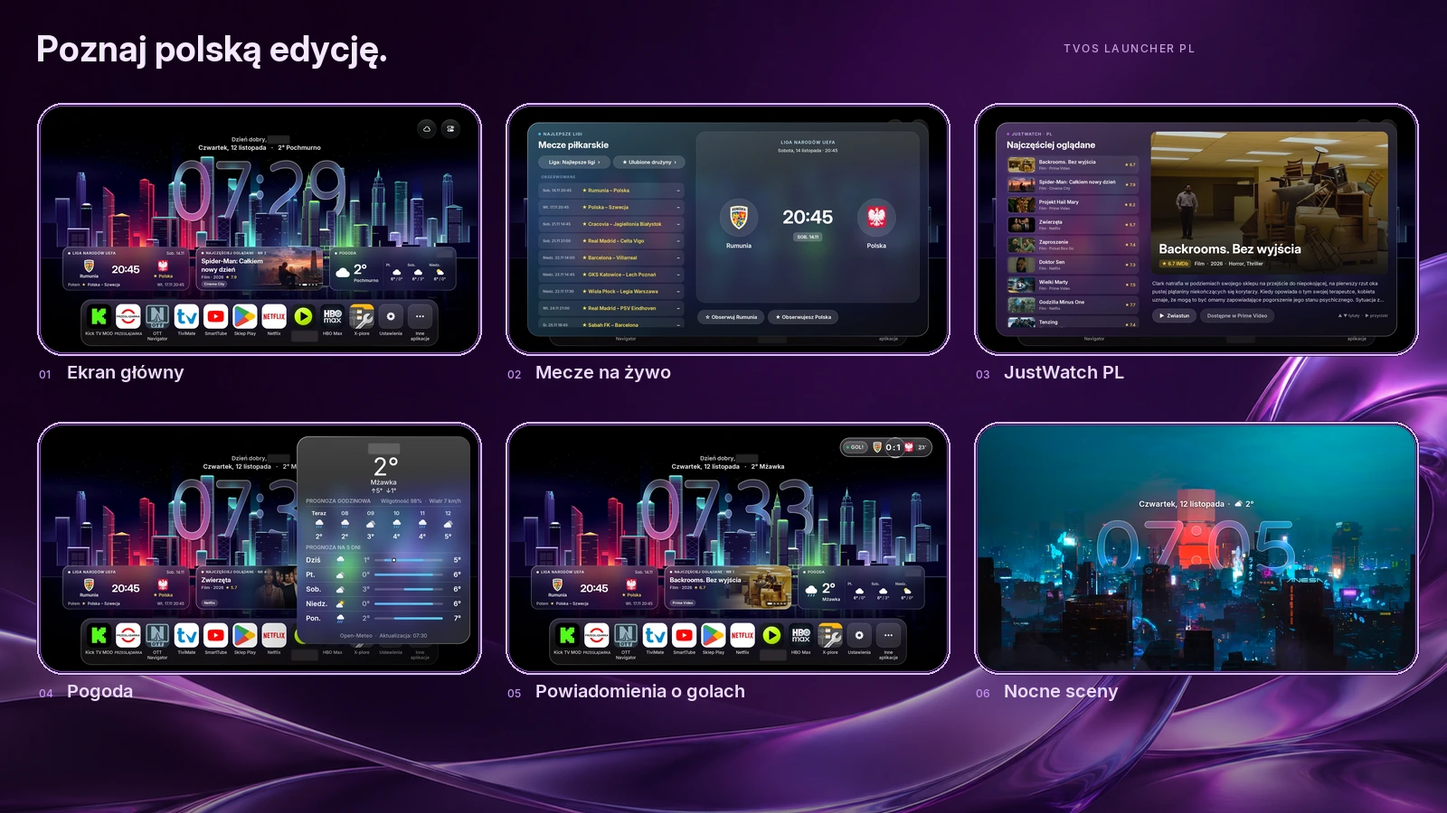
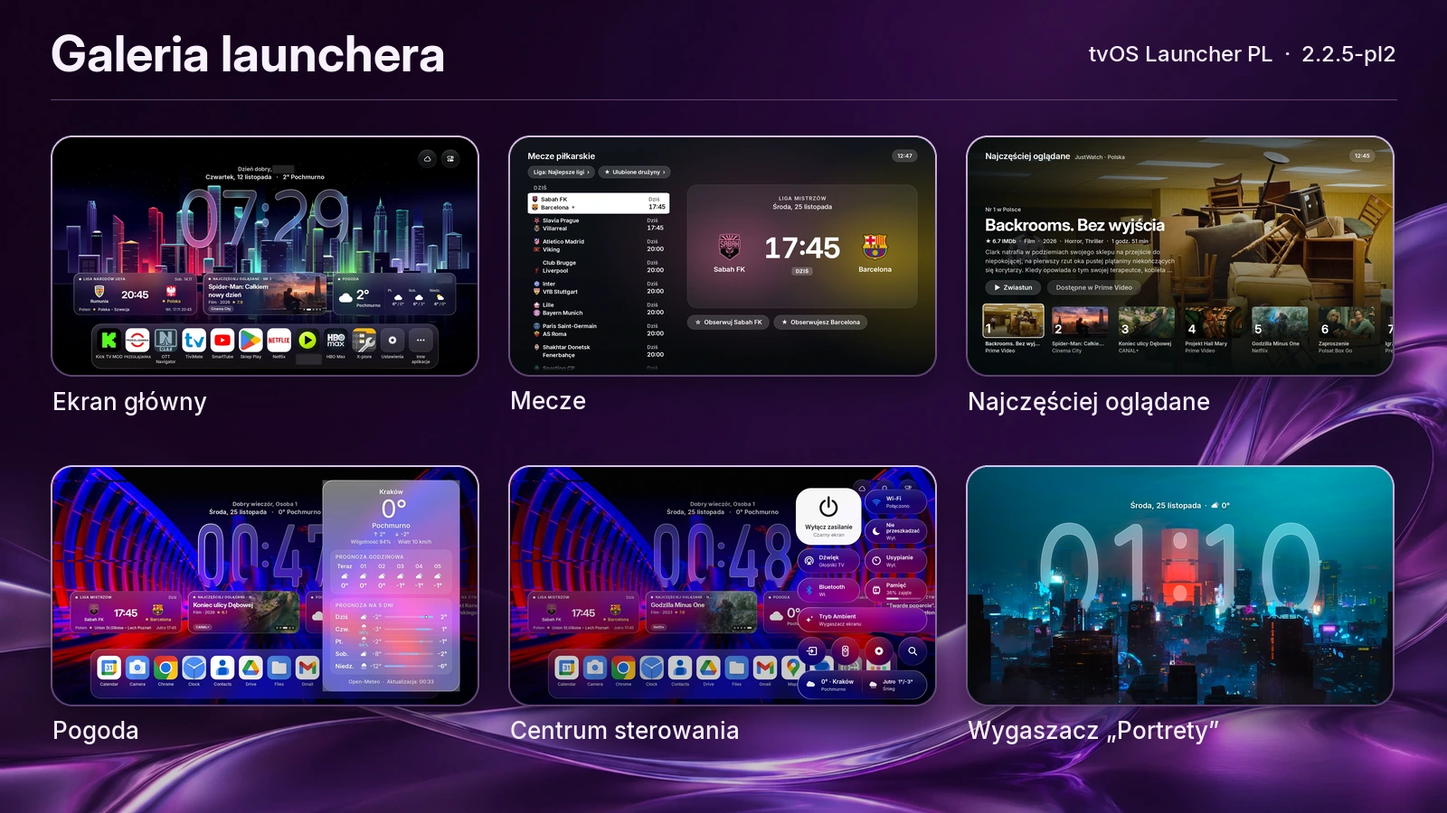
docs: plansze i zrzuty 2.2.5-pl2 w README
- nowa okładka i galeria (showcase.webp, preview.webp)
- plansze tematyczne w zrzuty-github/gotowe/prezentacja/ jako ilustracje
  przy funkcjach (mecze, filmy i seriale, pogoda, Centrum sterowania,
  dok, wygaszacz „Portrety”, pierwsze uruchomienie)
- pełne kadry z emulatora jako odnośniki do szczegółów, w tym pytanie
  po aktualizacji o wskaźnik głośności
- rozróżnienie pierwszej instalacji i aktualizacji w README PL i EN
- zaktualizowany spis ilustracji; screensaver-settings.webp nie jest już
  wykluczony w .gitignore

diff --git a/README.md b/README.md
@@ -1,6 +1,6 @@
 # tvOS Launcher PL · 2.2.5-pl2
 
-![tvOS Launcher PL: pełny ekran z dokiem i oknami moda na fioletowej scenie](zrzuty-github/gotowe/showcase.webp)
+![tvOS Launcher PL 2.2.5-pl2: ekran główny z dokiem, panel pogody i Centrum sterowania, a pod nimi mecze, „Najczęściej oglądane” i wygaszacz „Portrety”](zrzuty-github/gotowe/showcase.webp)
 
 [Galeria sześciu widoków / Six-screen gallery](zrzuty-github/gotowe/preview.webp)
 
@@ -28,29 +28,30 @@ Wcześniej, w 2.2.0-pl: dok w 1–3 rzędach z dopasowanym rzędem kafelków, ok
 
 ### Co zmieniono
 
-| Zmiana | Zrzut — kliknij, aby powiększyć |
+| Zmiana | Ilustracja — kliknij, aby powiększyć |
 | --- | --- |
-| **Pełne spolszczenie.** Interfejs, kreator pierwszego uruchomienia i opisy pogody są po polsku. | [<img src="zrzuty-github/gotowe/widget-settings.webp" width="300" alt="Ustawienia kafelków po polsku">](zrzuty-github/gotowe/widget-settings.webp) |
-| **Kafelki i okna Liquid Glass: mecze.** Kafelek pokazuje najbliższy mecz, a podczas spotkania wynik na żywo z LiveScore; osobne okno pozwala przeglądać mecze i obserwować drużyny. | [<img src="zrzuty-github/gotowe/matches-tile.webp" width="300" alt="Kafelek meczów z herbami i godziną">](zrzuty-github/gotowe/matches-tile.webp)<br>[<img src="zrzuty-github/gotowe/matches.webp" width="300" alt="Lista meczów i duży podgląd wybranego meczu">](zrzuty-github/gotowe/matches.webp) |
-| **„Najczęściej oglądane”.** Szklany kafelek i okno z popularnymi filmami i serialami z JustWatch dla Polski, opisami oraz przejściem do dostępnych serwisów. | [<img src="zrzuty-github/gotowe/most-watched.webp" width="300" alt="Polskie okno Najczęściej oglądane">](zrzuty-github/gotowe/most-watched.webp) |
-| **Pogoda.** Kafelek Liquid Glass otwiera polską prognozę godzinową i na kolejne dni. | [<img src="zrzuty-github/gotowe/weather.webp" width="300" alt="Pełny ekran z oknem pogody i ukrytą nazwą miejscowości">](zrzuty-github/gotowe/weather.webp) |
-| **Powiadomienia o golach.** Plakietki z herbami i wynikiem ulubionych drużyn mogą pojawiać się także nad innymi aplikacjami, po nadaniu zgody. Zrzut pokazuje powiadomienie przykładowe. | [<img src="zrzuty-github/gotowe/goal-badge.webp" width="300" alt="Przykładowa plakietka gola">](zrzuty-github/gotowe/goal-badge.webp) |
-| **„Oglądaj dalej” przez lokalne ADB.** Uprawnienie do informacji o odtwarzaniu można włączyć z launchera, potwierdzając zgodę na telewizorze. | [<img src="zrzuty-github/gotowe/setup-mode.webp" width="300" alt="Konfiguracja uprawnień po polsku">](zrzuty-github/gotowe/setup-mode.webp) |
-| **Nocne tapety z internetu.** Supercary i auta po tuningu — m.in. Audi RS, Mercedes-AMG i Lamborghini — w nocy i neonach oraz futurystyczne miasta nocą; zdjęcia za dnia launcher pomija. | [<img src="zrzuty-github/gotowe/home.webp" width="300" alt="Ekran główny z nocną tapetą i trzema kafelkami">](zrzuty-github/gotowe/home.webp) |
+| **Pełne spolszczenie.** Interfejs, kreator pierwszego uruchomienia i opisy pogody są po polsku. Zaznaczony wiersz list w ustawieniach to biała pigułka, jak w tvOS 27. | [<img src="zrzuty-github/gotowe/widget-settings.webp" width="300" alt="Ustawienia kafelków po polsku z białą pigułką zaznaczenia">](zrzuty-github/gotowe/widget-settings.webp) |
+| **Kafelki i okna Liquid Glass: mecze.** Kafelek pokazuje najbliższy mecz, a podczas spotkania wynik na żywo z LiveScore; osobne okno w stylu tvOS 27 pozwala przeglądać mecze i obserwować drużyny. | [<img src="zrzuty-github/gotowe/prezentacja/matches.webp" width="300" alt="Plansza Mecze: okno meczów i kafelek meczu na ekranie głównym">](zrzuty-github/gotowe/prezentacja/matches.webp)<br>Pełne kadry: [okno meczów](zrzuty-github/gotowe/matches.webp) · [kafelek](zrzuty-github/gotowe/matches-tile.webp) |
+| **„Najczęściej oglądane” i „Top filmy i seriale”.** Szklane kafelki i okna z popularnymi filmami i serialami z JustWatch dla Polski oraz z rankingiem Cinemeta (dane IMDb): duży kadr, opis, przejście do dostępnych serwisów i półka plakatów. | [<img src="zrzuty-github/gotowe/prezentacja/cinema.webp" width="300" alt="Plansza Filmy i seriale: okno Najczęściej oglądane i plakaty rankingu Top filmy i seriale">](zrzuty-github/gotowe/prezentacja/cinema.webp)<br>Pełne kadry: [Najczęściej oglądane](zrzuty-github/gotowe/most-watched.webp) · [Top filmy i seriale](zrzuty-github/gotowe/top-movies.webp) |
+| **Pogoda.** Kafelek Liquid Glass otwiera polską prognozę godzinową i na kolejne dni na przezroczystym szkle. | [<img src="zrzuty-github/gotowe/prezentacja/weather.webp" width="300" alt="Plansza Pogoda: panel z prognozą godzinową, testowa lokalizacja Kraków">](zrzuty-github/gotowe/prezentacja/weather.webp)<br>Pełny kadr: [panel pogody](zrzuty-github/gotowe/weather.webp) |
+| **Centrum sterowania i wskaźnik głośności.** Centrum sterowania w układzie tvOS 27: duży kafel zasilania, kapsuły, okrągłe przyciski i przezroczyste tło. Szklany wskaźnik głośności przy prawej krawędzi ekranu jest do wyboru na przystawkach z Androidem 10 lub nowszym, w trybie stałego ADB. | [<img src="zrzuty-github/gotowe/prezentacja/controls.webp" width="300" alt="Plansza Centrum sterowania: panel, ekran główny i szklany wskaźnik głośności">](zrzuty-github/gotowe/prezentacja/controls.webp)<br>Pełne kadry: [Centrum sterowania](zrzuty-github/gotowe/control-center.webp) · [wskaźnik głośności](zrzuty-github/gotowe/volume-pill.webp) · [detal wskaźnika](zrzuty-github/gotowe/volume-pill-detail.webp) |
+| **Dok w stylu tvOS 27.** Zaznaczona ikona rośnie i dostaje miękki cień, jasną krawędź szkła oraz połysk, który przesuwa się za ruchem pilota. | [<img src="zrzuty-github/gotowe/prezentacja/dock.webp" width="300" alt="Plansza Dok: rząd aplikacji i powiększona zaznaczona ikona">](zrzuty-github/gotowe/prezentacja/dock.webp)<br>Pełny kadr: [dok z zaznaczoną ikoną](zrzuty-github/gotowe/dock-focus.webp) |
+| **Powiadomienia o golach.** Plakietki z herbami i wynikiem ulubionych drużyn mogą pojawiać się także nad innymi aplikacjami, po nadaniu zgody. Zrzut pokazuje powiadomienie przykładowe. | [<img src="zrzuty-github/gotowe/goal-badge.webp" width="300" alt="Przykładowa plakietka gola">](zrzuty-github/gotowe/goal-badge.webp)<br>Pełny kadr: [powiadomienie na ekranie](zrzuty-github/gotowe/goal-notification.webp) |
+| **„Oglądaj dalej” przez lokalne ADB.** Uprawnienie do informacji o odtwarzaniu można włączyć z launchera, potwierdzając zgodę na telewizorze. | Pełny kadr: [kreator, tryb nadawania uprawnień](zrzuty-github/gotowe/setup-mode.webp) |
+| **Nocne tapety z internetu.** Supercary i auta po tuningu — m.in. Audi RS, Mercedes-AMG i Lamborghini — w nocy i neonach oraz futurystyczne miasta nocą; zdjęcia za dnia launcher pomija. Zapisane ulubione tapety wracają domyślnie co piątą zmianę; częstotliwość można zmienić. | [<img src="zrzuty-github/gotowe/home.webp" width="300" alt="Ekran główny z nocną tapetą i trzema kafelkami">](zrzuty-github/gotowe/home.webp)<br>Pełny kadr: [ustawienia tapet z internetu](zrzuty-github/gotowe/wallpaper-settings.webp) |
 | **Zegar dopasowany do zdjęcia.** Dół szklanych cyfr chowa się za dachem auta lub budynkami, a wykrywacz aut TensorFlow Lite działający w telewizorze pomaga unikać ustawiania zegara na aucie. Cyfry zachowują szklany wygląd scen oryginału. | [<img src="zrzuty-github/gotowe/screensaver-1.webp" width="300" alt="Szklany zegar na tle nocnego miasta">](zrzuty-github/gotowe/screensaver-1.webp) |
-| **Ulubione tapety.** Zapisane zdjęcia wracają domyślnie co piątą zmianę tapety; częstotliwość można zmienić. | [<img src="zrzuty-github/gotowe/wallpaper-settings.webp" width="300" alt="Ustawienie ulubionych co piątą tapetę">](zrzuty-github/gotowe/wallpaper-settings.webp) |
-| **Wygaszacz ekranu.** Korzysta z tych samych zdjęć i tego samego szklanego zegara co ekran główny; styl cyfr zegara można wybrać. | [<img src="zrzuty-github/gotowe/screensaver-1.webp" width="300" alt="Wygaszacz z futurystycznym miastem nocą">](zrzuty-github/gotowe/screensaver-1.webp) |
-| **Kreator zachowuje debugowanie USB.** Zalecany tryb konfiguracji nie wyłącza debugowania USB. | [<img src="zrzuty-github/gotowe/setup-mode.webp" width="300" alt="Zalecany tryb w polskim kreatorze">](zrzuty-github/gotowe/setup-mode.webp) |
-| **Aktualizacje z ustawień (od 2.2.0-pl).** Launcher sam sprawdza wydania tego repozytorium (**Ustawienia → Aktualizacje**, automatyczne sprawdzanie domyślnie włączone) i pokazuje okno z listą zmian i przyciskiem „Zainstaluj”; ustawienia zostają. Na zrzutach wersja testowa. | [<img src="zrzuty-github/gotowe/update-settings.webp" width="300" alt="Strona Ustawienia → Aktualizacje">](zrzuty-github/gotowe/update-settings.webp)<br>[<img src="zrzuty-github/gotowe/update-dialog.webp" width="300" alt="Okno dostępnej aktualizacji z przyciskiem Zainstaluj">](zrzuty-github/gotowe/update-dialog.webp) |
+| **Wygaszacz ekranu „Portrety”.** Wygaszacz korzysta z tych samych zdjęć i tego samego szklanego zegara co ekran główny, a styl cyfr można wybrać. Nowy styl „Duży, w stylu »Portrety«” ma duże cyfry z mlecznego szkła, których wielkość launcher dobiera do zdjęcia. | [<img src="zrzuty-github/gotowe/prezentacja/portraits.webp" width="300" alt="Wygaszacz ekranu „Portrety”: jeden pełny kadr z dużym zegarem nad nocnym miastem">](zrzuty-github/gotowe/prezentacja/portraits.webp)<br>Pełne kadry: [wygaszacz „Portrety”](zrzuty-github/gotowe/screensaver-portraits.webp) · [ustawienia wygaszacza](zrzuty-github/gotowe/screensaver-settings.webp) |
+| **Pierwsze uruchomienie.** Polski kreator zaleca tryb stałego ADB, który nie wyłącza debugowania USB: działają wtedy ostatnie aplikacje, aktualizacje przez ADB i wskaźnik głośności. Na przystawkach z Androidem 10 lub nowszym kreator pyta też, jaki wskaźnik głośności pokazywać. | [<img src="zrzuty-github/gotowe/prezentacja/setup.webp" width="300" alt="Plansza Pierwsze uruchomienie: wybór trybu konfiguracji i wskaźnika głośności w kreatorze">](zrzuty-github/gotowe/prezentacja/setup.webp)<br>Pełne kadry: [tryb konfiguracji](zrzuty-github/gotowe/setup-mode.webp) · [wskaźnik głośności](zrzuty-github/gotowe/setup-volume.webp) |
+| **Aktualizacje z ustawień (od 2.2.0-pl).** Launcher sam sprawdza wydania tego repozytorium (**Ustawienia → Aktualizacje**, automatyczne sprawdzanie domyślnie włączone) i pokazuje okno z listą zmian i przyciskiem „Zainstaluj”; ustawienia zostają. Po aktualizacji do 2.2.5-pl2 kreator nie uruchamia się ponownie, a launcher raz pyta, czy włączyć szklany wskaźnik głośności (tylko tam, gdzie zadziała). Na zrzutach wersja testowa. | [<img src="zrzuty-github/gotowe/update-settings.webp" width="300" alt="Strona Ustawienia → Aktualizacje z najnowszą wersją 2.2.5-pl2">](zrzuty-github/gotowe/update-settings.webp)<br>[<img src="zrzuty-github/gotowe/update-dialog.webp" width="300" alt="Okno dostępnej aktualizacji z przyciskiem Zainstaluj">](zrzuty-github/gotowe/update-dialog.webp)<br>Pełny kadr: [pytanie po aktualizacji](zrzuty-github/gotowe/update-question.webp) |
 
 ### Instalacja i aktualizacje
 
 1. Pobierz APK (link wyżej) i przenieś na Android TV / Google TV pendrive'em lub przez Send files to TV.
 2. Otwórz plik w menedżerze plików; jeśli trzeba, zezwól temu menedżerowi na instalację z nieznanych źródeł.
-3. Przejdź polski kreator: profil, sceny i miasto do pogody. Wybierz konfigurację ręczną, jeśli chcesz samodzielnie nadawać uprawnienia; wyłączanie systemowych launcherów i CleanYourTV są opcjonalne.
+3. Przejdź polski kreator: profil, sceny i miasto do pogody, a na przystawkach z Androidem 10 lub nowszym także wskaźnik głośności. Wybierz konfigurację ręczną, jeśli chcesz samodzielnie nadawać uprawnienia; wyłączanie systemowych launcherów i CleanYourTV są opcjonalne.
 4. Jeśli system zapyta o domyślny ekran główny, wybierz tvOS Launcher; w przeciwnym razie uruchamiaj go z listy aplikacji.
 
-**Aktualizacje:** launcher sam sprawdza wydania tego repozytorium i proponuje instalację nowej wersji (**Ustawienia → Aktualizacje**; automatyczne sprawdzanie jest domyślnie włączone). Ustawienia zostają. Wersja 2.1.5-pl30 sprawdzała jeszcze oryginał, więc z niej zainstaluj nową wersję raz ręcznie, na poprzednią.
+**Aktualizacje:** launcher sam sprawdza wydania tego repozytorium i proponuje instalację nowej wersji (**Ustawienia → Aktualizacje**; automatyczne sprawdzanie jest domyślnie włączone). Ustawienia zostają, a kreator nie uruchamia się ponownie; po aktualizacji do 2.2.5-pl2 launcher raz zapyta o szklany wskaźnik głośności (tylko tam, gdzie zadziała). Wersja 2.1.5-pl30 sprawdzała jeszcze oryginał, więc z niej zainstaluj nową wersję raz ręcznie, na poprzednią.
 
 **„Oglądaj dalej”:** włącz debugowanie USB w opcjach programisty telewizora, następnie **Ustawienia launchera → Szybkie ustawienia → Uprawnienie „Oglądaj dalej” → Włącz** i potwierdź pytanie telewizora. Po nadaniu uprawnienia możesz wyłączyć debugowanie USB.
 
@@ -88,29 +89,30 @@ Earlier, in 2.2.0-pl: 1–3 dock rows with a matching tile row, the “Apps” w
 
 ### Changes
 
-| Change | Screenshot — click to enlarge |
+| Change | Illustration — click to enlarge |
 | --- | --- |
-| **Full Polish translation.** The interface, first-run wizard and weather descriptions are in Polish. | [<img src="zrzuty-github/gotowe/widget-settings.webp" width="300" alt="Widget settings in Polish">](zrzuty-github/gotowe/widget-settings.webp) |
-| **Liquid Glass tiles and windows: football.** The tile shows the next fixture and LiveScore scores during a match; a dedicated window lets you browse fixtures and follow teams. | [<img src="zrzuty-github/gotowe/matches-tile.webp" width="300" alt="Football tile with team crests and kickoff time">](zrzuty-github/gotowe/matches-tile.webp)<br>[<img src="zrzuty-github/gotowe/matches.webp" width="300" alt="Fixture list and large selected match preview">](zrzuty-github/gotowe/matches.webp) |
-| **“Most Watched”.** A glass tile and window show popular films and series from JustWatch for Poland, with descriptions and links to available services. | [<img src="zrzuty-github/gotowe/most-watched.webp" width="300" alt="Polish Most Watched window">](zrzuty-github/gotowe/most-watched.webp) |
-| **Weather.** The Liquid Glass tile opens an hourly and multi-day forecast in Polish. | [<img src="zrzuty-github/gotowe/weather.webp" width="300" alt="Full screen with the weather window and location blurred">](zrzuty-github/gotowe/weather.webp) |
-| **Goal notifications.** Badges with favorite teams’ crests and scores can appear over other apps after permission is granted. The screenshot shows a sample notification. | [<img src="zrzuty-github/gotowe/goal-badge.webp" width="300" alt="Sample goal notification badge">](zrzuty-github/gotowe/goal-badge.webp) |
-| **Continue Watching through local ADB.** Playback-information access can be enabled from the launcher by confirming a prompt on the TV. | [<img src="zrzuty-github/gotowe/setup-mode.webp" width="300" alt="Permission setup in Polish">](zrzuty-github/gotowe/setup-mode.webp) |
-| **Nighttime internet wallpapers.** Supercars and tuned cars — including Audi RS, Mercedes-AMG and Lamborghini — at night and in neon light, plus futuristic cities at night; the launcher skips daytime images. | [<img src="zrzuty-github/gotowe/home.webp" width="300" alt="Home screen with a nighttime wallpaper and three tiles">](zrzuty-github/gotowe/home.webp) |
+| **Full Polish translation.** The interface, first-run wizard and weather descriptions are in Polish. The focused row in settings lists is a white pill, as in tvOS 27. | [<img src="zrzuty-github/gotowe/widget-settings.webp" width="300" alt="Widget settings in Polish with a white focus pill">](zrzuty-github/gotowe/widget-settings.webp) |
+| **Liquid Glass tiles and windows: football.** The tile shows the next fixture and LiveScore scores during a match; a dedicated tvOS 27-style window lets you browse fixtures and follow teams. | [<img src="zrzuty-github/gotowe/prezentacja/matches.webp" width="300" alt="Football board: fixture window and the match tile on the home screen">](zrzuty-github/gotowe/prezentacja/matches.webp)<br>Full frames: [fixture window](zrzuty-github/gotowe/matches.webp) · [tile](zrzuty-github/gotowe/matches-tile.webp) |
+| **“Most Watched” and “Top movies and series”.** Glass tiles and windows with popular films and series from JustWatch for Poland and the Cinemeta ranking (IMDb data): a large backdrop, a description, links to available services and a poster shelf. | [<img src="zrzuty-github/gotowe/prezentacja/cinema.webp" width="300" alt="Films and series board: Most Watched window and Top movies and series posters">](zrzuty-github/gotowe/prezentacja/cinema.webp)<br>Full frames: [Most Watched](zrzuty-github/gotowe/most-watched.webp) · [Top movies and series](zrzuty-github/gotowe/top-movies.webp) |
+| **Weather.** The Liquid Glass tile opens an hourly and multi-day forecast in Polish on clear glass. | [<img src="zrzuty-github/gotowe/prezentacja/weather.webp" width="300" alt="Weather board: hourly forecast panel, test location Kraków">](zrzuty-github/gotowe/prezentacja/weather.webp)<br>Full frame: [weather panel](zrzuty-github/gotowe/weather.webp) |
+| **Control Center and volume indicator.** A tvOS 27 Control Center layout: a large power tile, capsules, round buttons and a clear background. A glass volume indicator at the right edge of the screen is optional on set-top boxes with Android 10 or later in persistent ADB mode. | [<img src="zrzuty-github/gotowe/prezentacja/controls.webp" width="300" alt="Control Center board: panel, home screen and the glass volume indicator">](zrzuty-github/gotowe/prezentacja/controls.webp)<br>Full frames: [Control Center](zrzuty-github/gotowe/control-center.webp) · [volume indicator](zrzuty-github/gotowe/volume-pill.webp) · [indicator detail](zrzuty-github/gotowe/volume-pill-detail.webp) |
+| **tvOS 27-style dock.** The focused icon grows and gets a soft shadow, a bright glass edge and a sheen that follows the remote. | [<img src="zrzuty-github/gotowe/prezentacja/dock.webp" width="300" alt="Dock board: app row and an enlarged focused icon">](zrzuty-github/gotowe/prezentacja/dock.webp)<br>Full frame: [dock with a focused icon](zrzuty-github/gotowe/dock-focus.webp) |
+| **Goal notifications.** Badges with favorite teams’ crests and scores can appear over other apps after permission is granted. The screenshot shows a sample notification. | [<img src="zrzuty-github/gotowe/goal-badge.webp" width="300" alt="Sample goal notification badge">](zrzuty-github/gotowe/goal-badge.webp)<br>Full frame: [notification on screen](zrzuty-github/gotowe/goal-notification.webp) |
+| **Continue Watching through local ADB.** Playback-information access can be enabled from the launcher by confirming a prompt on the TV. | Full frame: [wizard, permission mode](zrzuty-github/gotowe/setup-mode.webp) |
+| **Nighttime internet wallpapers.** Supercars and tuned cars — including Audi RS, Mercedes-AMG and Lamborghini — at night and in neon light, plus futuristic cities at night; the launcher skips daytime images. Saved favorites return every fifth wallpaper change by default; the frequency is configurable. | [<img src="zrzuty-github/gotowe/home.webp" width="300" alt="Home screen with a nighttime wallpaper and three tiles">](zrzuty-github/gotowe/home.webp)<br>Full frame: [internet wallpaper settings](zrzuty-github/gotowe/wallpaper-settings.webp) |
 | **A clock that fits the image.** The bottom of the glass digits hides behind car roofs or buildings, while an on-device TensorFlow Lite car detector helps keep the clock off the car itself. The digits retain the original scenes’ glass appearance. | [<img src="zrzuty-github/gotowe/screensaver-1.webp" width="300" alt="Glass clock with a nighttime city">](zrzuty-github/gotowe/screensaver-1.webp) |
-| **Favorite wallpapers.** Saved images return every fifth wallpaper change by default; the frequency is configurable. | [<img src="zrzuty-github/gotowe/wallpaper-settings.webp" width="300" alt="Favorites set to return every fifth wallpaper">](zrzuty-github/gotowe/wallpaper-settings.webp) |
-| **Screensaver.** It uses the same images and glass clock as the home screen; the clock digit style is selectable. | [<img src="zrzuty-github/gotowe/screensaver-1.webp" width="300" alt="Screensaver with a futuristic city at night">](zrzuty-github/gotowe/screensaver-1.webp) |
-| **The wizard keeps USB debugging enabled.** The recommended setup mode no longer disables USB debugging. | [<img src="zrzuty-github/gotowe/setup-mode.webp" width="300" alt="Recommended mode in the Polish setup wizard">](zrzuty-github/gotowe/setup-mode.webp) |
-| **Updates from settings (since 2.2.0-pl).** The launcher checks this repository’s releases (**Settings → Updates**, automatic checks on by default) and shows a window with the changelog and an “Install” button; your settings are kept. The screenshots show a test build. | [<img src="zrzuty-github/gotowe/update-settings.webp" width="300" alt="Settings → Updates page">](zrzuty-github/gotowe/update-settings.webp)<br>[<img src="zrzuty-github/gotowe/update-dialog.webp" width="300" alt="Update available window with the Install button">](zrzuty-github/gotowe/update-dialog.webp) |
+| **“Portraits” screensaver.** The screensaver uses the same images and glass clock as the home screen, and the digit style is selectable. The new “Large, Portraits style” has large frosted-glass digits sized to each photo. | [<img src="zrzuty-github/gotowe/prezentacja/portraits.webp" width="300" alt="“Portraits” screensaver: one full frame with a large clock over a night city">](zrzuty-github/gotowe/prezentacja/portraits.webp)<br>Full frames: [“Portraits” screensaver](zrzuty-github/gotowe/screensaver-portraits.webp) · [screensaver settings](zrzuty-github/gotowe/screensaver-settings.webp) |
+| **First run.** The Polish wizard recommends persistent ADB mode, which keeps USB debugging on, so recent apps, ADB updates and the volume indicator work. On set-top boxes with Android 10 or later the wizard also asks which volume indicator to show. | [<img src="zrzuty-github/gotowe/prezentacja/setup.webp" width="300" alt="First run board: choosing the setup mode and the volume indicator in the wizard">](zrzuty-github/gotowe/prezentacja/setup.webp)<br>Full frames: [setup mode](zrzuty-github/gotowe/setup-mode.webp) · [volume indicator](zrzuty-github/gotowe/setup-volume.webp) |
+| **Updates from settings (since 2.2.0-pl).** The launcher checks this repository’s releases (**Settings → Updates**, automatic checks on by default) and shows a window with the changelog and an “Install” button; your settings are kept. After updating to 2.2.5-pl2 the wizard does not run again; the launcher asks once whether to turn on the glass volume indicator (only where it works). The screenshots show a test build. | [<img src="zrzuty-github/gotowe/update-settings.webp" width="300" alt="Settings → Updates page with the latest version 2.2.5-pl2">](zrzuty-github/gotowe/update-settings.webp)<br>[<img src="zrzuty-github/gotowe/update-dialog.webp" width="300" alt="Update available window with the Install button">](zrzuty-github/gotowe/update-dialog.webp)<br>Full frame: [question after updating](zrzuty-github/gotowe/update-question.webp) |
 
 ### Installation and updates
 
 1. Download the APK (link above) and transfer it to Android TV / Google TV using a USB drive or Send files to TV.
 2. Open it in a file manager; allow that file manager to install unknown apps if prompted.
-3. Complete the Polish wizard: profile, scenes and weather location. Choose manual setup if you prefer to grant permissions yourself; disabling system launchers and using CleanYourTV are optional.
+3. Complete the Polish wizard: profile, scenes and weather location, plus the volume indicator on set-top boxes with Android 10 or later. Choose manual setup if you prefer to grant permissions yourself; disabling system launchers and using CleanYourTV are optional.
 4. Select tvOS Launcher if Android asks for a default home app; otherwise launch it from the app list.
 
-**Updates:** the launcher checks this repository’s releases and offers to install new versions (**Settings → Updates**; automatic checks are on by default). Your settings are kept. Version 2.1.5-pl30 still checked the original repository, so install the new version over it manually once.
+**Updates:** the launcher checks this repository’s releases and offers to install new versions (**Settings → Updates**; automatic checks are on by default). Your settings are kept and the wizard does not run again; after updating to 2.2.5-pl2 the launcher asks once about the glass volume indicator (only where it works). Version 2.1.5-pl30 still checked the original repository, so install the new version over it manually once.
 
 **Continue Watching:** enable USB debugging in the TV’s developer options, then go to **Launcher settings → Quick settings → “Continue Watching” permission → Enable** and confirm the TV prompt. You may disable USB debugging afterwards.
 

diff --git a/zrzuty-github/README.md b/zrzuty-github/README.md
@@ -1,25 +1,48 @@
 # Galeria tvOS Launcher PL
 
-15 obrazów WebP o szerokości 1600 px, każdy poniżej 400 KB. Pełne zrzuty ekranu głównego zachowują proporcje 16:9 i widoczny dok aplikacji.
+31 obrazów WebP o szerokości 1600 px, każdy poniżej 400 KB, bez metadanych EXIF i XMP: 24 w `gotowe/` i 7 plansz tematycznych w `gotowe/prezentacja/`. Pełne zrzuty mają proporcje ekranu 16:9, a wycinki i detale proporcje pokazanego elementu.
+
+## Okładka i plansze 2.2.5-pl2
 
 | Plik | Zawartość |
 | --- | --- |
-| `home.webp` | Pełny ekran główny z trzema kafelkami i dokiem aplikacji |
-| `matches.webp` | Pełny ekran z oknem meczów: lista i duży podgląd |
-| `matches-tile.webp` | Wycinek lewego kafelka meczów z ekranu głównego |
-| `most-watched.webp` | Pełny ekran z oknem JustWatch dla Polski |
-| `weather.webp` | Pełny ekran z panelem pogody, z zamazaną miejscowością |
-| `wallpaper-settings.webp` | Ustawienia tapet i ulubionych |
-| `widget-settings.webp` | Ustawienia kafelków |
-| `goal-notification.webp` | Pełny ekran z przykładową plakietką gola i dokiem |
-| `goal-badge.webp` | Wycinek przykładowej plakietki gola |
-| `setup-mode.webp` | Kreator: tryb nadawania uprawnień |
-| `screensaver-1.webp` | Wygaszacz: futurystyczne miasto nocą |
-| `update-settings.webp` | Ustawienia → Aktualizacje (wersja testowa na emulatorze, 2.2.0-pl na GitHubie) |
-| `update-dialog.webp` | Okno „Dostępna aktualizacja” nad ustawieniami (ta sama wersja testowa) |
-| `preview.webp` | Fioletowa galeria 3 × 2: ekran główny, mecze, JustWatch, pogoda, gol i wygaszacz |
-| `showcase.webp` | Główna plansza z czterema widokami: duży ekran główny z pełnym dokiem, okna meczów, filmów i pogody oraz plakietka gola; cienkie świetlne krawędzie 2–3 px, miękkie cienie i fioletowa oprawa |
+| `gotowe/showcase.webp` | Okładka: ekran główny z pełnym dokiem, panel pogody i Centrum sterowania, a pod nimi okna meczów i „Najczęściej oglądane” oraz wygaszacz „Portrety” |
+| `gotowe/preview.webp` | Galeria 3 × 2: te same sześć widoków w pełnych kadrach |
+| `gotowe/prezentacja/matches.webp` | Mecze: okno meczów i kafelek meczu na ekranie głównym |
+| `gotowe/prezentacja/cinema.webp` | Filmy i seriale: okno „Najczęściej oglądane” (JustWatch) i plakaty rankingu „Top filmy i seriale” |
+| `gotowe/prezentacja/weather.webp` | Pogoda: powiększona prognoza godzinowa na szkle |
+| `gotowe/prezentacja/controls.webp` | Centrum sterowania: panel, ekran główny i szklany wskaźnik głośności |
+| `gotowe/prezentacja/dock.webp` | Dok: cały rząd aplikacji i powiększona zaznaczona ikona |
+| `gotowe/prezentacja/portraits.webp` | Wygaszacz ekranu „Portrety”: jeden pełny kadr z dużym zegarem nad nocnym miastem |
+| `gotowe/prezentacja/setup.webp` | Pierwsze uruchomienie: wybór trybu konfiguracji i wskaźnika głośności w kreatorze |
 
-Zanonimizowano dane profilu, lokalizację i wybrane podpisy aplikacji. Zachowano ikony oraz nazwy drużyn i meczów. Obrazy nie zawierają metadanych EXIF ani XMP.
+## Pełne kadry i detale
 
-Interfejs na zrzutach pochodzi z aplikacji. Dekoracyjne tło planszy wygenerowano przy użyciu AI; zanonimizowane zrzuty złożono lokalnie.
+| Plik | Zawartość |
+| --- | --- |
+| `gotowe/matches.webp` | Okno meczów w stylu tvOS 27: lista spotkań i podgląd zaznaczonego meczu |
+| `gotowe/matches-tile.webp` | Wycinek kafelka meczów z ekranu głównego (telewizor) |
+| `gotowe/most-watched.webp` | „Najczęściej oglądane”: duży kadr, opis filmu i półka kart z serwisami |
+| `gotowe/top-movies.webp` | „Top filmy i seriale”: zakładki, opis tytułu i numerowane plakaty |
+| `gotowe/weather.webp` | Panel pogody na przezroczystym szkle (testowa lokalizacja Kraków) |
+| `gotowe/control-center.webp` | Centrum sterowania w układzie tvOS 27 z zaznaczonym kafelkiem zasilania |
+| `gotowe/volume-pill.webp` | Szklany wskaźnik głośności przy prawej krawędzi ekranu |
+| `gotowe/volume-pill-detail.webp` | Pionowy detal wskaźnika głośności na przezroczystym tle |
+| `gotowe/dock-focus.webp` | Dok z zaznaczoną ikoną Chrome |
+| `gotowe/widget-settings.webp` | Ustawienia pięciu kafelków ekranu głównego |
+| `gotowe/wallpaper-settings.webp` | Własna tapeta nocnych scen: tapety z internetu i opcje zmiany (24 godziny to ustawienie testowe, domyślnie 15 minut) |
+| `gotowe/screensaver-settings.webp` | Ustawienia wygaszacza z wybranym stylem zegara „Duży, w stylu »Portrety«” |
+| `gotowe/screensaver-portraits.webp` | Wygaszacz „Portrety”: duży zegar za budynkami nocnego miasta |
+| `gotowe/setup-mode.webp` | Kreator: wybór trybu nadawania uprawnień z zalecanym stałym ADB |
+| `gotowe/setup-volume.webp` | Kreator: wybór wskaźnika głośności z podglądem pigułki |
+| `gotowe/update-question.webp` | Jednorazowe pytanie po aktualizacji o szklany wskaźnik głośności |
+| `gotowe/update-settings.webp` | Ustawienia → Aktualizacje: wersja testowa i najnowsza 2.2.5-pl2 |
+| `gotowe/update-dialog.webp` | Okno „Dostępna aktualizacja” z przyciskiem „Zainstaluj” |
+| `gotowe/home.webp` | Ekran główny z trzema kafelkami i dokiem (telewizor) |
+| `gotowe/goal-notification.webp` | Przykładowe powiadomienie o golu na pełnym ekranie (telewizor) |
+| `gotowe/goal-badge.webp` | Wycinek przykładowej plakietki gola |
+| `gotowe/screensaver-1.webp` | Wygaszacz: futurystyczne miasto nocą (telewizor) |
+
+Nowe kadry pochodzą z emulatora Android TV z profilem testowym i testową lokalizacją, dlatego w doku widać aplikacje telefonu. Kadry oznaczone „telewizor” powstały wcześniej; zamaskowano w nich dane profilu, miejscowość i wybrane podpisy aplikacji. Ekran główny na planszach pochodzi z tego wcześniejszego zrzutu z telewizora. W oknie aktualizacji usunięto systemowe podświetlenie emulatora za przyciskiem „Zainstaluj” (na telewizorach go nie ma).
+
+Interfejs na zrzutach pochodzi z aplikacji. Dekoracyjne tło plansz wygenerowano przy użyciu AI; zrzuty złożono lokalnie. Zdjęcia, grafiki filmowe i herby należą do ich właścicieli.
